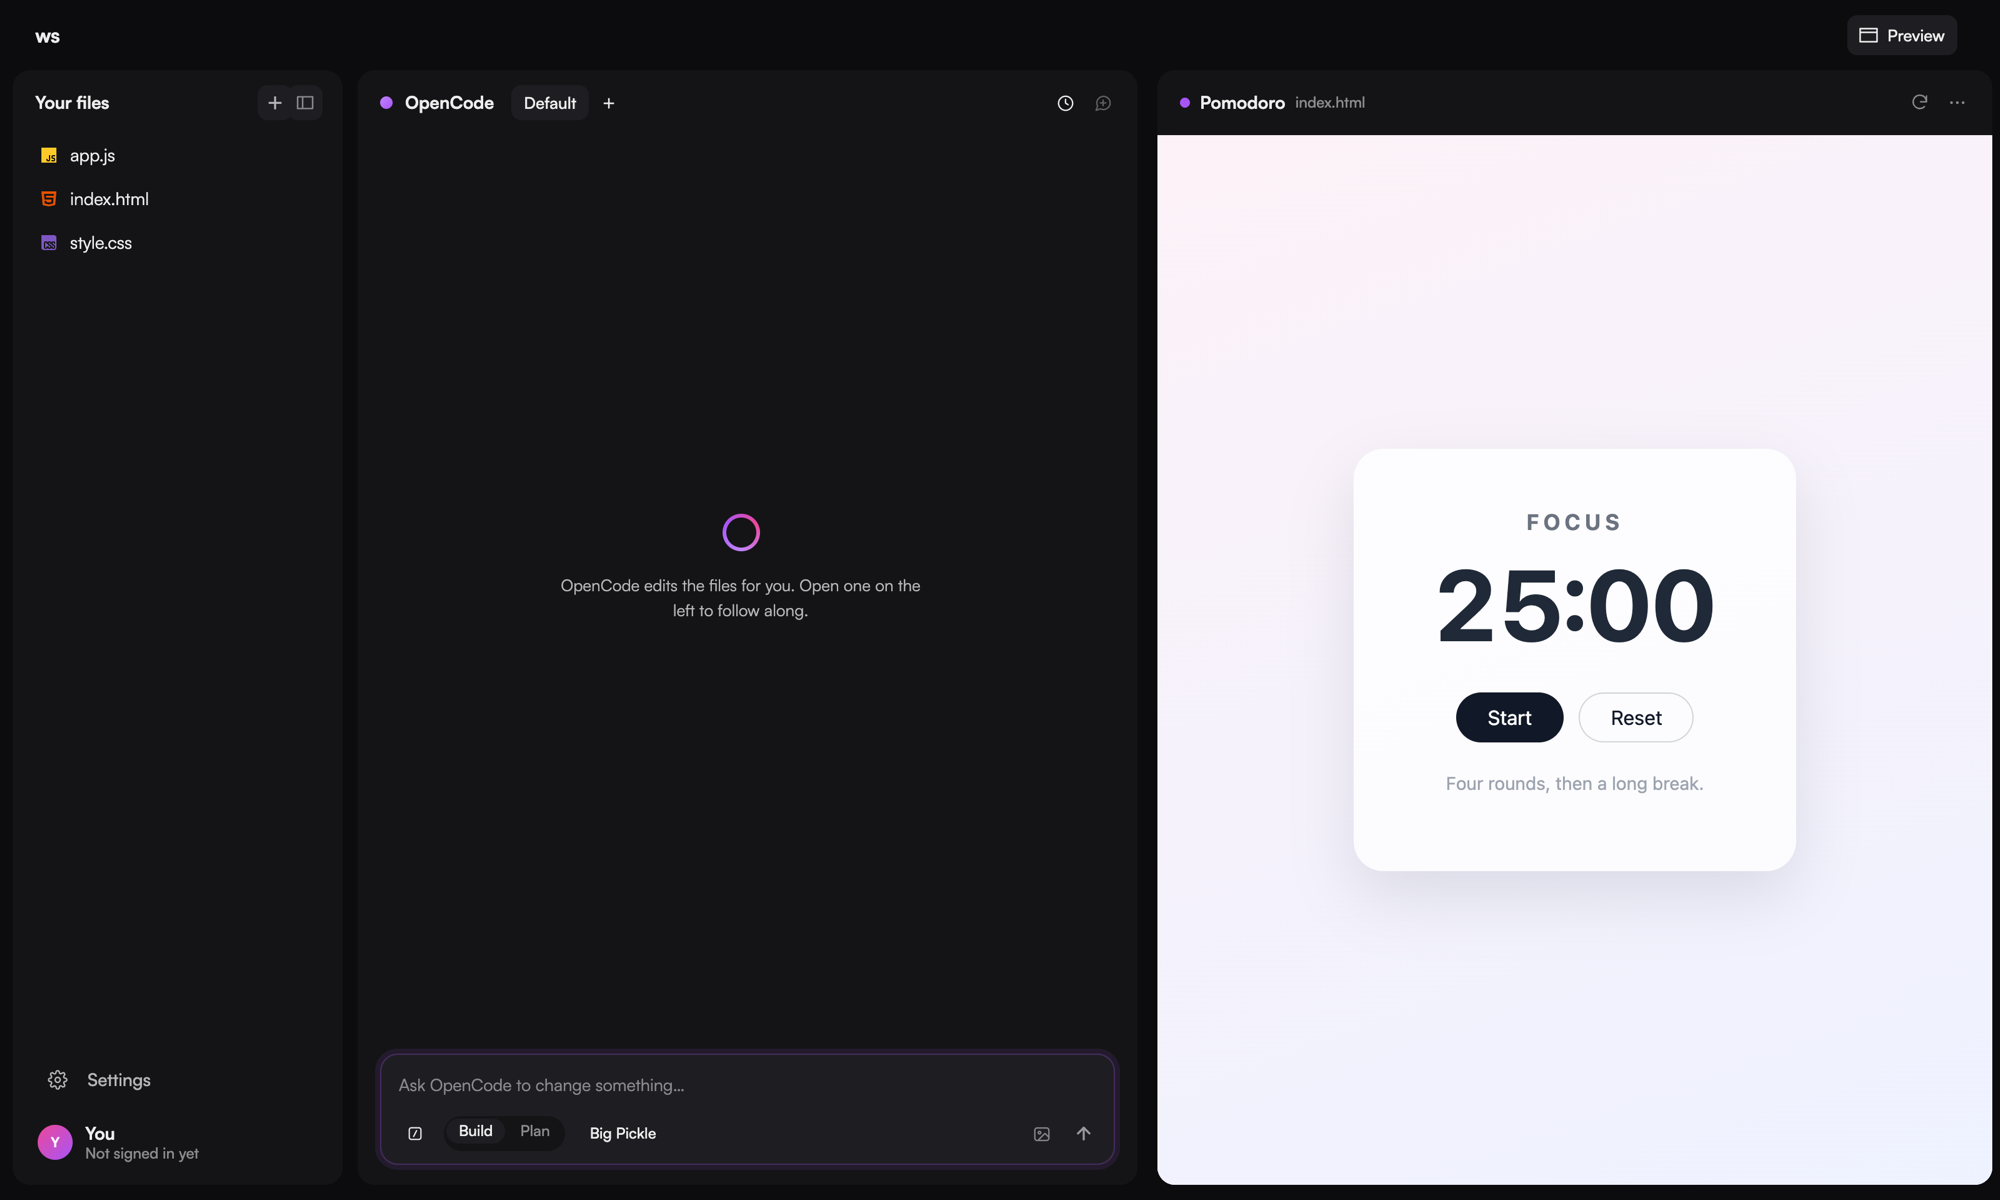
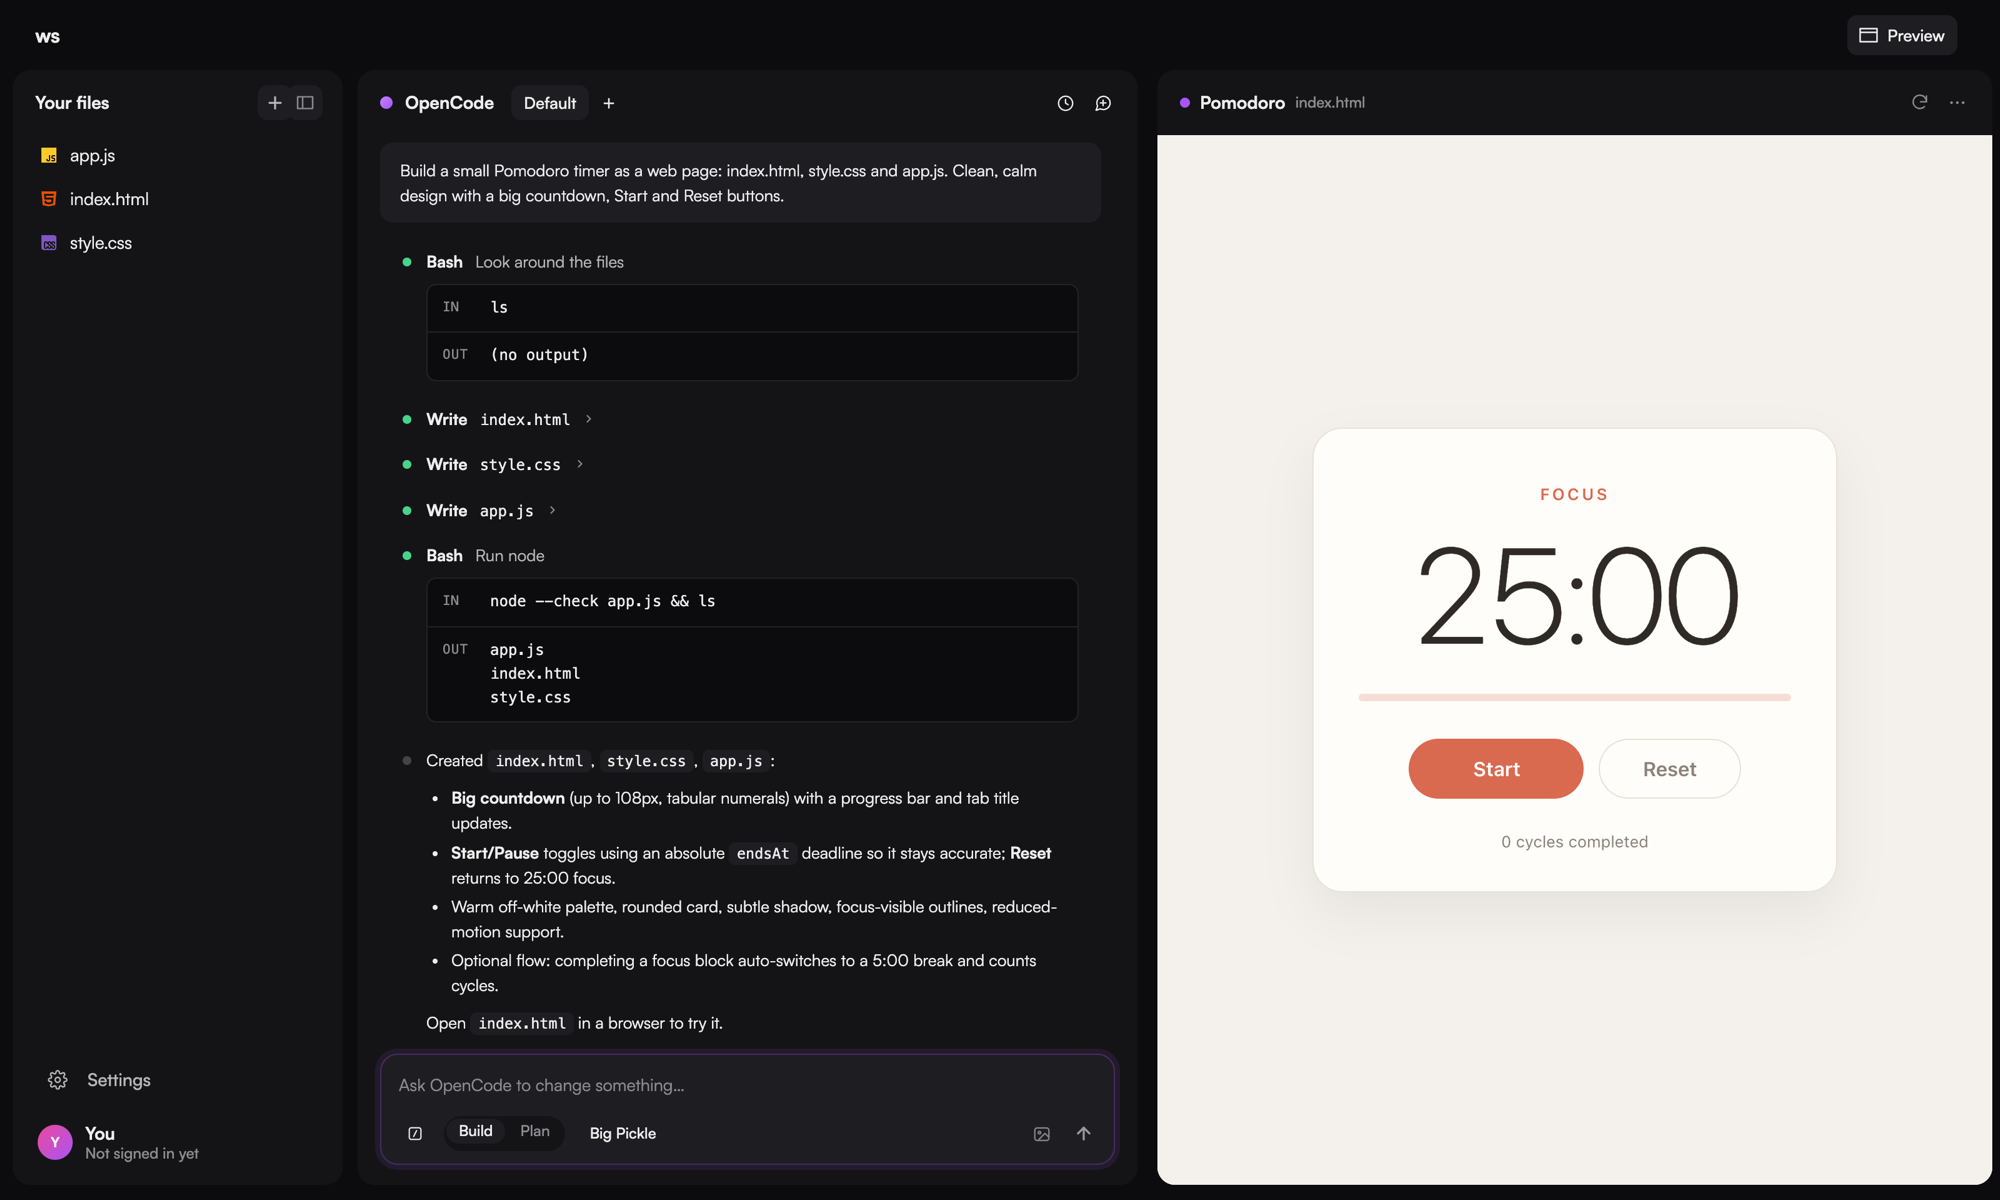
docs: screenshots that show an assistant building an app, and a realistic portal
Dev mode seeds pomodoro, api-sandbox and data-notebook, and DEV_NAME sets
the display name.

diff --git a/services/manager/dev_test.go b/services/manager/dev_test.go
@@ -69,11 +69,11 @@ func TestDevFakeDeploymentBecomesReady(t *testing.T) {
 	}
 	waitReady(1)
 
-	// Seeded fixtures keep their state: the demo workspace is Ready from the
-	// start and the paused one stays at 0.
-	demo, err := deps.Get(ctx, "ws-dev-demo", metav1.GetOptions{})
-	if err != nil || demo.Status.ReadyReplicas != 1 {
-		t.Errorf("seeded demo workspace: err=%v ready=%v, want ready 1", err, demo.Status.ReadyReplicas)
+	// Seeded fixtures keep their state: the running workspace is Ready from
+	// the start and the stopped ones stay at 0.
+	running, err := deps.Get(ctx, "ws-dev-pomodoro", metav1.GetOptions{})
+	if err != nil || running.Status.ReadyReplicas != 1 {
+		t.Errorf("seeded running workspace: err=%v ready=%v, want ready 1", err, running.Status.ReadyReplicas)
 	}
 }
 

diff --git a/services/manager/main.go b/services/manager/main.go
@@ -411,7 +411,7 @@ func (c *config) loginHandler(w http.ResponseWriter, r *http.Request) {
 		// Local-dev bypass (see DEV_USER in main): mint a session directly.
 		// cookieSecure is false here because this only ever runs on
 		// plain-http localhost (main refuses any other PUBLIC_HOST).
-		cookieVal := c.signSession(c.devUser, "Dev User", time.Now().Add(8*time.Hour))
+		cookieVal := c.signSession(c.devUser, getenv("DEV_NAME", "Dev User"), time.Now().Add(8*time.Hour))
 		slog.Warn("dev login", "identity", c.devUser, "derived_username", (&session{userUPN: c.devUser}).username())
 		http.SetCookie(w, &http.Cookie{
 			Name:     "mw_session",

diff --git a/services/manager/dev.go b/services/manager/dev.go
@@ -51,12 +51,14 @@ func newDevFakeClients(namespace, username string, readyDelay time.Duration) kub
 		}
 	}
 
-	running := "ws-" + username + "-demo"
-	paused := "ws-" + username + "-paused"
+	running := "ws-" + username + "-pomodoro"
+	paused := "ws-" + username + "-api-sandbox"
+	paused2 := "ws-" + username + "-data-notebook"
 
 	k8s := k8sfake.NewSimpleClientset(
 		deployment(running, 1, 1),
 		deployment(paused, 0, 0),
+		deployment(paused2, 0, 0),
 		&corev1.Pod{
 			ObjectMeta: metav1.ObjectMeta{
 				Name:      running + "-6c9f7d4b8-x2m4q",

diff --git a/docs/development.md b/docs/development.md
@@ -121,4 +121,4 @@ hand.
 | `START_TIMEOUT` | no | `10m`; `0` disables |
 | `IDLE_WARN_DAYS`, `IDLE_DELETE_DAYS` | no | `7`, `14`; `0` disables |
 | `LISTEN` | no | `:8080` |
-| `DEV_USER`, `DEV_FAKE`, `KUBECONFIG` | dev only | See above |
+| `DEV_USER`, `DEV_NAME`, `DEV_FAKE`, `KUBECONFIG` | dev only | See above (`DEV_NAME` is the display name, default `Dev User`) |
